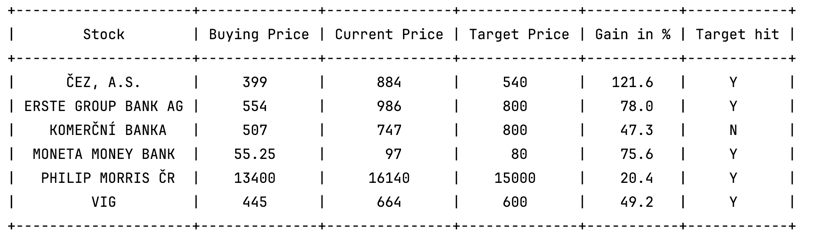
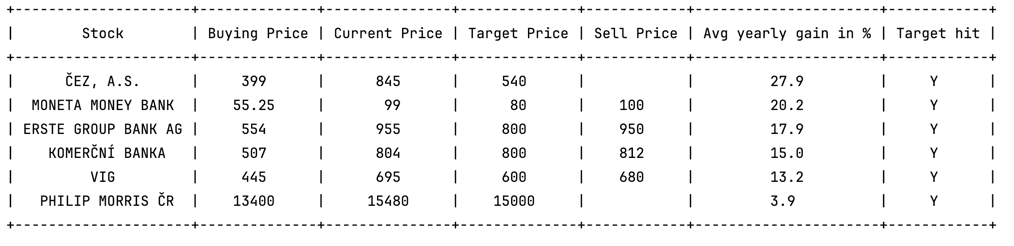
Improve counting average yearly gain

diff --git a/main.py b/main.py
@@ -1,10 +1,11 @@
+import datetime
 import random
 import sys
 import time
 from typing import List
 
 import requests
-from bs4 import BeautifulSoup, ResultSet
+from bs4 import BeautifulSoup, ResultSet, Tag
 from prettytable import PrettyTable
 
 try:
@@ -15,12 +16,12 @@ except ImportError:
 from user_agents import CHROME_USER_AGENTS
 
 STOCK_TARGETS = {
-    "ČEZ, A.S.": {"purchase_price": 399, "target_price": 540},
-    "ERSTE GROUP BANK AG": {"purchase_price": 554, "target_price": 800, "sell_price": 950},
-    "KOMERČNÍ BANKA": {"purchase_price": 507, "target_price": 800, "sell_price": 812},
-    "MONETA MONEY BANK": {"purchase_price": 55.25, "target_price": 80, "sell_price": 100},
-    "PHILIP MORRIS ČR": {"purchase_price": 13400, "target_price": 15000},
-    "VIG": {"purchase_price": 445, "target_price": 600, "sell_price": 680},
+    "ČEZ, A.S.": {"purchase_price": 399, "target_price": 540, "purchased": 2020},
+    "ERSTE GROUP BANK AG": {"purchase_price": 554, "target_price": 800, "sell_price": 950, "purchased": 2020, "sold": 2024},
+    "KOMERČNÍ BANKA": {"purchase_price": 507, "target_price": 800, "sell_price": 812, "purchased": 2020, "sold": 2024},
+    "MONETA MONEY BANK": {"purchase_price": 55.25, "target_price": 80, "sell_price": 100, "purchased": 2020, "sold": 2024},
+    "PHILIP MORRIS ČR": {"purchase_price": 13400, "target_price": 15000, "purchased": 2020},
+    "VIG": {"purchase_price": 445, "target_price": 600, "sell_price": 680, "purchased": 2020, "sold": 2024},
   }
 CHECK_IF_TARGET_HIT = False
 
@@ -38,13 +39,14 @@ def get_stocks_prices(stocks_items: ResultSet) -> List[tuple]:
     stock_pairs = []
     for stock_item in stocks_items[1:]:
         stock_name = stock_item.td.text
+
         try:
-            target_price = STOCK_TARGETS[stock_name]["target_price"]
-            buying_price = STOCK_TARGETS[stock_name]["purchase_price"]
-            sell_price = STOCK_TARGETS[stock_name].get("sell_price", "")
-            current_stock_price = stock_item.td.next_sibling.text.replace(",", ".").replace(" ", "")
-            cleaned_current_price = int(float(current_stock_price))
-            gain = round((cleaned_current_price - buying_price) / STOCK_TARGETS[stock_name]["purchase_price"] * 100, 1)
+            stock_data = STOCK_TARGETS[stock_name]
+            target_price = stock_data["target_price"]
+            buying_price = stock_data["purchase_price"]
+            sell_price = stock_data.get("sell_price", "")
+            cleaned_current_price = get_cleaned_current_price(stock_item)
+            gain = get_avg_yearly_gain(stock_data, cleaned_current_price, sell_price, buying_price, stock_name)
             stock_pairs.append((stock_name, buying_price, cleaned_current_price, target_price, sell_price, gain))
         except KeyError:
             continue
@@ -82,7 +84,9 @@ def filter_watched_stocks(stocks: List[tuple]) -> List[str]:
 
 
 def print_pretty_table(watched_stocks: list[tuple]) -> None:
-    table = PrettyTable(["Stock", "Buying Price", "Current Price", "Target Price", "Sell Price", "Gain in %", "Target hit"])
+    table = PrettyTable(["Stock", "Buying Price", "Current Price", "Target Price", "Sell Price", "Avg yearly gain in %", "Target hit"])
+
+    watched_stocks.sort(key=lambda x: x[5], reverse=True)
 
     for stock_items in watched_stocks:
         full_info = [stock_info for stock_info in stock_items]
@@ -91,6 +95,24 @@ def print_pretty_table(watched_stocks: list[tuple]) -> None:
         table.add_row(full_info)
 
     print(table)
+
+
+def get_cleaned_current_price(stock_item: Tag) -> int:
+    current_stock_price = stock_item.td.next_sibling.text.replace(",", ".").replace(" ", "")
+    return int(float(current_stock_price))
+
+
+def get_avg_yearly_gain(stock_data: dict, cleaned_current_price: int, sell_price: int | None, buying_price: int, stock_name: str) -> float:
+    if sell_price:
+        years_held = stock_data["sold"] - stock_data["purchased"]
+        final_price = sell_price
+    else:
+        years_held = datetime.datetime.today().year - stock_data["purchased"]
+        final_price = cleaned_current_price
+
+    total_gain = (final_price - buying_price) / stock_data["purchase_price"] * 100
+    avg_yearly_gain = total_gain / years_held
+    return round(avg_yearly_gain, 1)
 
 
 def hit_target(full_info: list) -> str:
